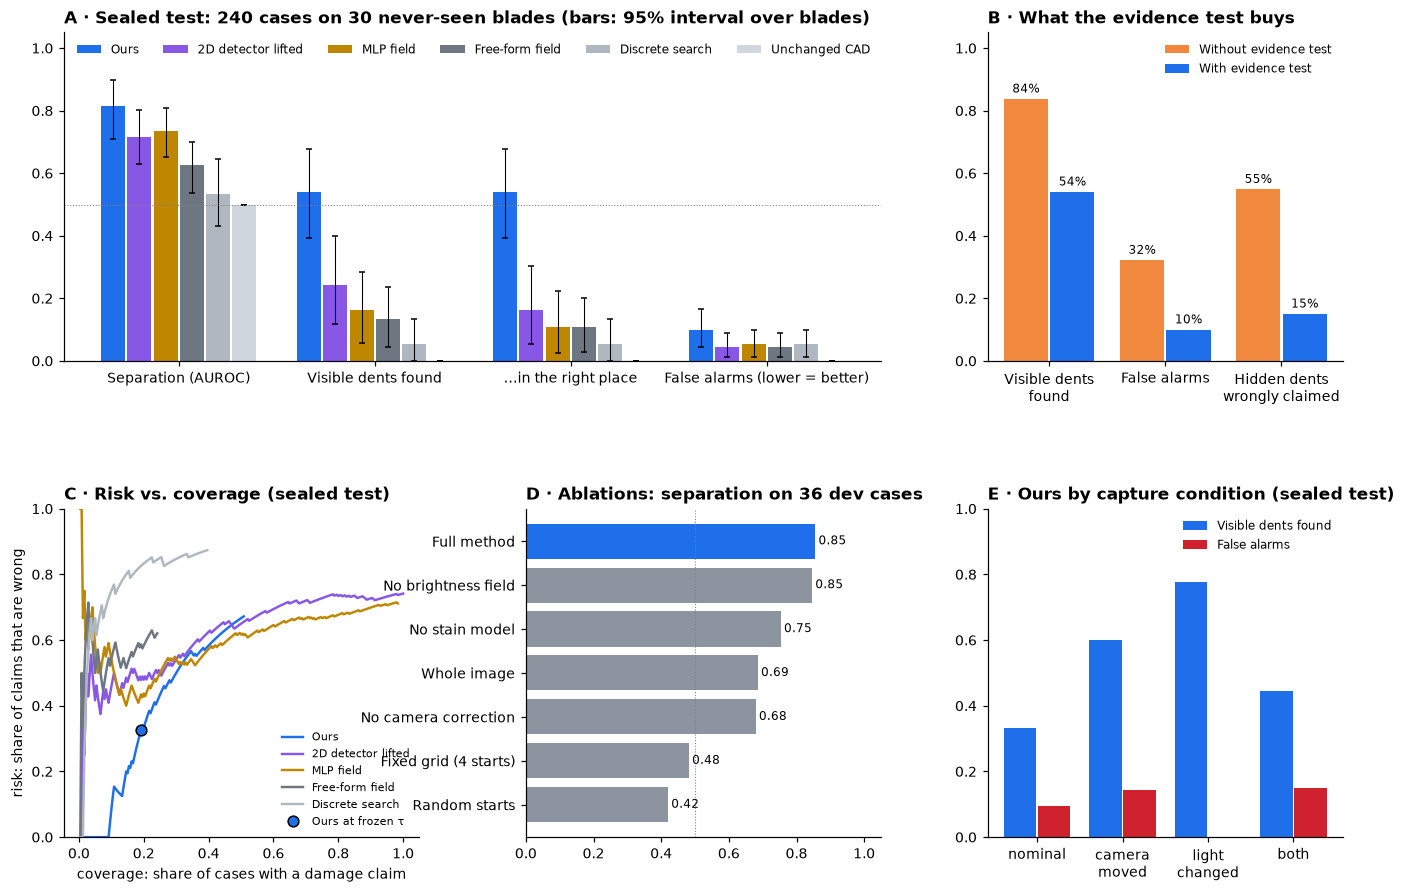
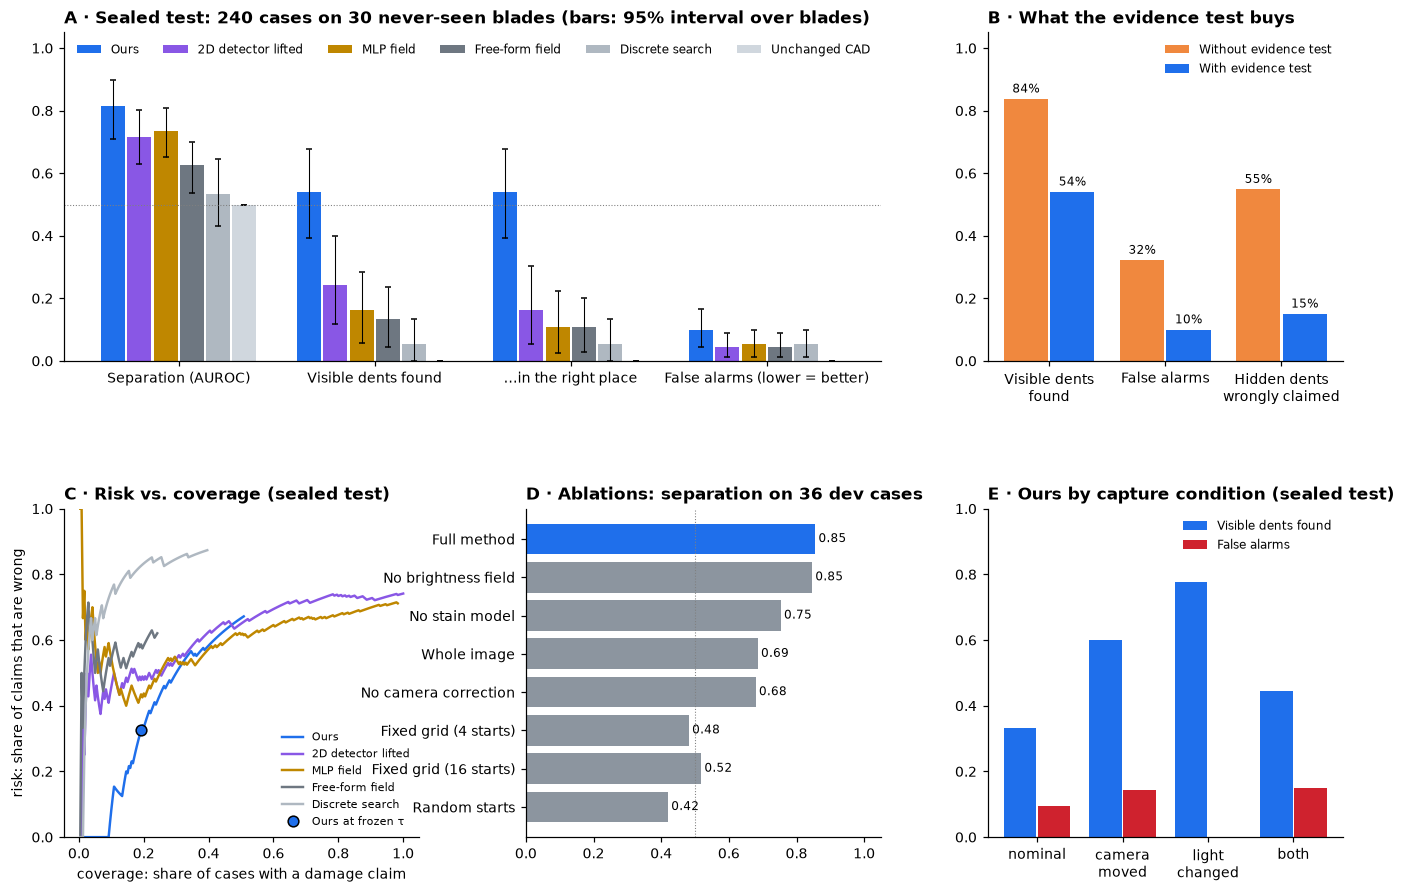
Auto-update results (interim)

Changed region(s): [[0.2448, 0.5745, 0.5815, 0.9071], [0.5815, 0.6349, 0.6121, 0.6652]]

diff --git a/results.html b/results.html
@@ -6,7 +6,7 @@
 <link rel="stylesheet" href="styles.css">
 <style>main.res{max-width:1100px;margin:0 auto;padding:32px 16px 64px;display:grid;gap:18px} main.res small{color:var(--muted)}</style>
 </head><body><main class="res">
-<span class="eyebrow">BladeDelta results · 09 Oct 2026, 13:55 UTC</span>
+<span class="eyebrow">BladeDelta results · 09 Oct 2026, 15:55 UTC</span>
 <h1>Sealed-test results <span class="chip partial">updating automatically</span></h1>
 <p>This page is rebuilt automatically from the experiment outputs. The test set is 240 cases on 30 blade shapes never used
 for development; the method and its threshold were locked before any test image existed. Brackets are 95% intervals,
@@ -94,7 +94,7 @@ Rotor37) and its threshold are the frozen ones, so this measures how well it tra
 <div class="tablewrap"><table><thead><tr><th>Blade</th><th>Airfoil span</th><th>Cases</th><th>Visible dents</th><th>AUROC</th><th>Found</th><th>False alarms</th></tr></thead><tbody><tr><td>1</td><td>24 mm</td><td>76</td><td>31</td><td>0.98</td><td>100%</td><td>100%</td></tr><tr><td>2</td><td>26 mm</td><td>76</td><td>31</td><td>0.72</td><td>100%</td><td>100%</td></tr><tr><td>3</td><td>31 mm</td><td>76</td><td>31</td><td>0.64</td><td>97%</td><td>100%</td></tr><tr><td>4</td><td>40 mm</td><td>76</td><td>31</td><td>0.66</td><td>94%</td><td>82%</td></tr><tr><td>5</td><td>52 mm</td><td>76</td><td>31</td><td>0.93</td><td>84%</td><td>6%</td></tr><tr><td>6</td><td>70 mm</td><td>76</td><td>31</td><td>0.86</td><td>87%</td><td>15%</td></tr></tbody></table></div>
 <h2>Risk vs. coverage</h2><figure><img src="img/results/risk_coverage.png" alt="Risk-coverage curves" style="max-width:560px">
 <figcaption>Sweeping the evidence threshold: how many cases get a damage claim (coverage) and what fraction of those claims are wrong (risk). Lower and further right is better.</figcaption></figure>
-<h2>Ablations (36 development cases)</h2><div class="tablewrap"><table><thead><tr><th>Variant</th><th>Separation</th><th>Visible found</th><th>False alarms</th></tr></thead><tbody><tr><td>Full method</td><td>0.85 <small>[0.77–0.96]</small></td><td>67% <small>[41–88]</small></td><td>0% <small>[0–0]</small></td></tr><tr><td>No camera correction</td><td>0.68 <small>[0.49–0.84]</small></td><td>89% <small>[72–100]</small></td><td>39% <small>[21–56]</small></td></tr><tr><td>No stain model</td><td>0.75 <small>[0.56–0.90]</small></td><td>89% <small>[77–100]</small></td><td>50% <small>[33–69]</small></td></tr><tr><td>Random starts instead of smart proposals</td><td>0.42 <small>[0.23–0.62]</small></td><td>6% <small>[0–20]</small></td><td>0% <small>[0–0]</small></td></tr><tr><td>Fixed grid of 4 starts</td><td>0.48 <small>[0.32–0.62]</small></td><td>6% <small>[0–17]</small></td><td>0% <small>[0–0]</small></td></tr><tr><td>Whole image, not reliable pixels</td><td>0.69 <small>[0.49–0.85]</small></td><td>78% <small>[53–95]</small></td><td>6% <small>[0–20]</small></td></tr><tr><td>No brightness field</td><td>0.85 <small>[0.72–0.95]</small></td><td>94% <small>[80–100]</small></td><td>33% <small>[11–59]</small></td></tr><tr><td>4 views</td><td>0.83 <small>[0.71–0.95]</small></td><td>78% <small>[61–94]</small></td><td>6% <small>[0–19]</small></td></tr><tr><td>7 views</td><td>0.85 <small>[0.69–0.98]</small></td><td>78% <small>[61–94]</small></td><td>11% <small>[0–29]</small></td></tr></tbody></table></div>
+<h2>Ablations (36 development cases)</h2><div class="tablewrap"><table><thead><tr><th>Variant</th><th>Separation</th><th>Visible found</th><th>False alarms</th></tr></thead><tbody><tr><td>Full method</td><td>0.85 <small>[0.77–0.96]</small></td><td>67% <small>[41–88]</small></td><td>0% <small>[0–0]</small></td></tr><tr><td>No camera correction</td><td>0.68 <small>[0.49–0.84]</small></td><td>89% <small>[72–100]</small></td><td>39% <small>[21–56]</small></td></tr><tr><td>No stain model</td><td>0.75 <small>[0.56–0.90]</small></td><td>89% <small>[77–100]</small></td><td>50% <small>[33–69]</small></td></tr><tr><td>Random starts instead of smart proposals</td><td>0.42 <small>[0.23–0.62]</small></td><td>6% <small>[0–20]</small></td><td>0% <small>[0–0]</small></td></tr><tr><td>Fixed grid of 4 starts</td><td>0.48 <small>[0.32–0.62]</small></td><td>6% <small>[0–17]</small></td><td>0% <small>[0–0]</small></td></tr><tr><td>Fixed grid of 16 starts (4× compute)</td><td>0.52 <small>[0.38–0.66]</small></td><td>7% <small>[0–20]</small></td><td>0% <small>[0–0]</small></td></tr><tr><td>Whole image, not reliable pixels</td><td>0.69 <small>[0.49–0.85]</small></td><td>78% <small>[53–95]</small></td><td>6% <small>[0–20]</small></td></tr><tr><td>No brightness field</td><td>0.85 <small>[0.72–0.95]</small></td><td>94% <small>[80–100]</small></td><td>33% <small>[11–59]</small></td></tr><tr><td>4 views</td><td>0.83 <small>[0.71–0.95]</small></td><td>78% <small>[61–94]</small></td><td>6% <small>[0–19]</small></td></tr><tr><td>7 views</td><td>0.85 <small>[0.69–0.98]</small></td><td>78% <small>[61–94]</small></td><td>11% <small>[0–29]</small></td></tr></tbody></table></div>
 <h2>Examples (picked automatically)</h2><p>Left: the photo, with the <b style="color:#ff8c28">true dent in orange</b> and
 <b style="color:#2878e6">what the method reports in blue</b>. Middle: the healthy blade. Right: the difference (brighter = more different).</p>
 <figure><img src="img/latest/test_0062_4.jpg" alt="Found and measured" loading="lazy"><figcaption><b>Found and measured.</b> dent · capture: camera · true depth 0.14 mm, 100% visible · evidence score 31.6 (threshold 1.52) · shape error 8% of the unchanged CAD <small>(test_0062_4)</small></figcaption></figure>

diff --git a/index.html b/index.html
@@ -58,7 +58,7 @@
       <span class="eyebrow">Latest updates · 7 October 2026, afternoon</span>
       <h2 id="h-latest">Latest results, in pictures</h2>
       <p><b>Final sealed-test numbers and every method side by side: <a href="results.html">live results page</a></b> (rebuilt automatically as experiments finish).</p>
-      <!--AUTO-STATUS-START--><div class="note"><strong>Automatic status · 09 Oct 2026, 13:55 UTC</strong><p>8 of 13 phases done. Sealed test: separation 0.82, 54% of visible dents found, 10% false alarms. <a href="results.html">Full results and charts →</a></p></div><!--AUTO-STATUS-END-->
+      <!--AUTO-STATUS-START--><div class="note"><strong>Automatic status · 09 Oct 2026, 15:56 UTC</strong><p>8 of 13 phases done. Sealed test: separation 0.82, 54% of visible dents found, 10% false alarms. <a href="results.html">Full results and charts →</a></p></div><!--AUTO-STATUS-END-->
       <div class="stats">
         <div class="stat"><span class="big">213 / 240</span><span class="lbl">sealed-test cases done (27 never-seen blades); numbers below are preliminary</span></div>
         <div class="stat"><span class="big">0.81</span><span class="lbl">separation of visible dents from healthy/stained blades (was 0.89 at 80 cases)</span></div>
